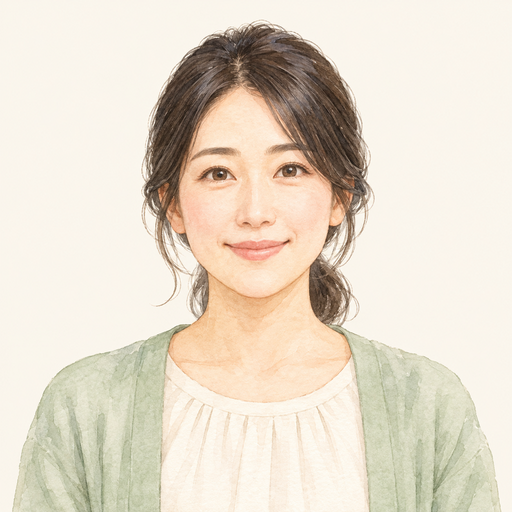
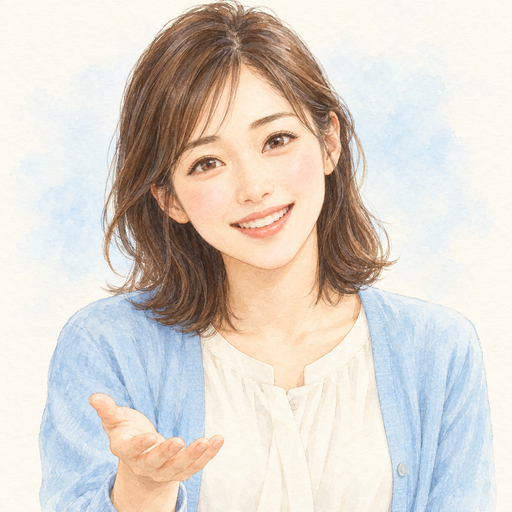
Add files via upload

diff --git a/kesera-club.html b/kesera-club.html
@@ -144,7 +144,7 @@ input[type="range"] { width: 100%; height: 36px; accent-color: var(--accent); }
 
 .guide { position: fixed; left: 0; right: 0; bottom: 0; z-index: 20; background: var(--surface); border-top: 2px solid var(--accent); padding-top: 10px; padding-bottom: calc(10px + env(safe-area-inset-bottom, 0px)); padding-left: max(16px, env(safe-area-inset-left, 0px)); padding-right: max(16px, env(safe-area-inset-right, 0px)); }
 .guide-in { max-width: 760px; margin: 0 auto; display: flex; gap: 12px; align-items: flex-start; }
-.g-avatar { width: 80px; height: 80px; border-radius: 50%; overflow: hidden; flex: none; background: radial-gradient(circle at 35% 30%, var(--accent-soft), var(--leaf-soft)); border: 2px solid var(--line); }
+.g-avatar { width: 104px; height: 104px; border-radius: 14px; overflow: hidden; flex: none; background: radial-gradient(circle at 35% 30%, var(--accent-soft), var(--leaf-soft)); border: 2px solid var(--line); }
 .g-avatar img, .g-avatar svg { width: 100%; height: 100%; object-fit: cover; display: block; }
 .g-body { flex: 1 1 auto; min-width: 0; display: flex; flex-direction: column; gap: 6px; }
 .g-name { font-size: 0.85rem; color: var(--accent); }
@@ -258,7 +258,7 @@ button[aria-pressed="true"] { font-weight:700; }
 :root[data-look="photo"] body::before { background-image:linear-gradient(#fff5,#fff5),var(--photo); background-position:center; background-size:cover; }
 :root[data-look="photo"] .card,:root[data-look="photo"] .welcome { background:var(--surface); box-shadow:0 5px 25px #18334419; }
 @media (min-width:760px) { .top { align-items:center; } .greet { padding:26px 30px; } .go .featured { grid-column:auto !important; } }
-@media (max-width:600px) { body { padding-top:18px; } .top { align-items:flex-start; } .header-tools { width:100%; } .header-tools .btn { flex:1 1 auto; font-size:.88rem; padding:6px 10px; } .appearance-note { margin-top:-12px; } .card { padding:18px; border-radius:min(var(--radius),18px); } .welcome { padding:24px 20px; } .design-content { padding:20px 16px; gap:20px; } .design-grid { gap:9px; } .design-footer { padding:16px; } .design-footer .btn { width:100%; } .color-choice .choice-face { flex-direction:column; gap:4px; } .guide-in { gap:8px; } .g-avatar { width:52px; height:52px; } .guide .btn { font-size:.8rem; min-height:44px; padding:4px 10px; } }
+@media (max-width:600px) { body { padding-top:18px; } .top { align-items:flex-start; } .header-tools { width:100%; } .header-tools .btn { flex:1 1 auto; font-size:.88rem; padding:6px 10px; } .appearance-note { margin-top:-12px; } .card { padding:18px; border-radius:min(var(--radius),18px); } .welcome { padding:24px 20px; } .design-content { padding:20px 16px; gap:20px; } .design-grid { gap:9px; } .design-footer { padding:16px; } .design-footer .btn { width:100%; } .color-choice .choice-face { flex-direction:column; gap:4px; } .guide-in { gap:8px; } .g-avatar { width:88px; height:88px; } .guide .btn { font-size:.8rem; min-height:44px; padding:4px 10px; } }
 @media (prefers-reduced-motion:reduce) { *,*::before,*::after { transition:none !important; animation:none !important; scroll-behavior:auto !important; } }
 
 
